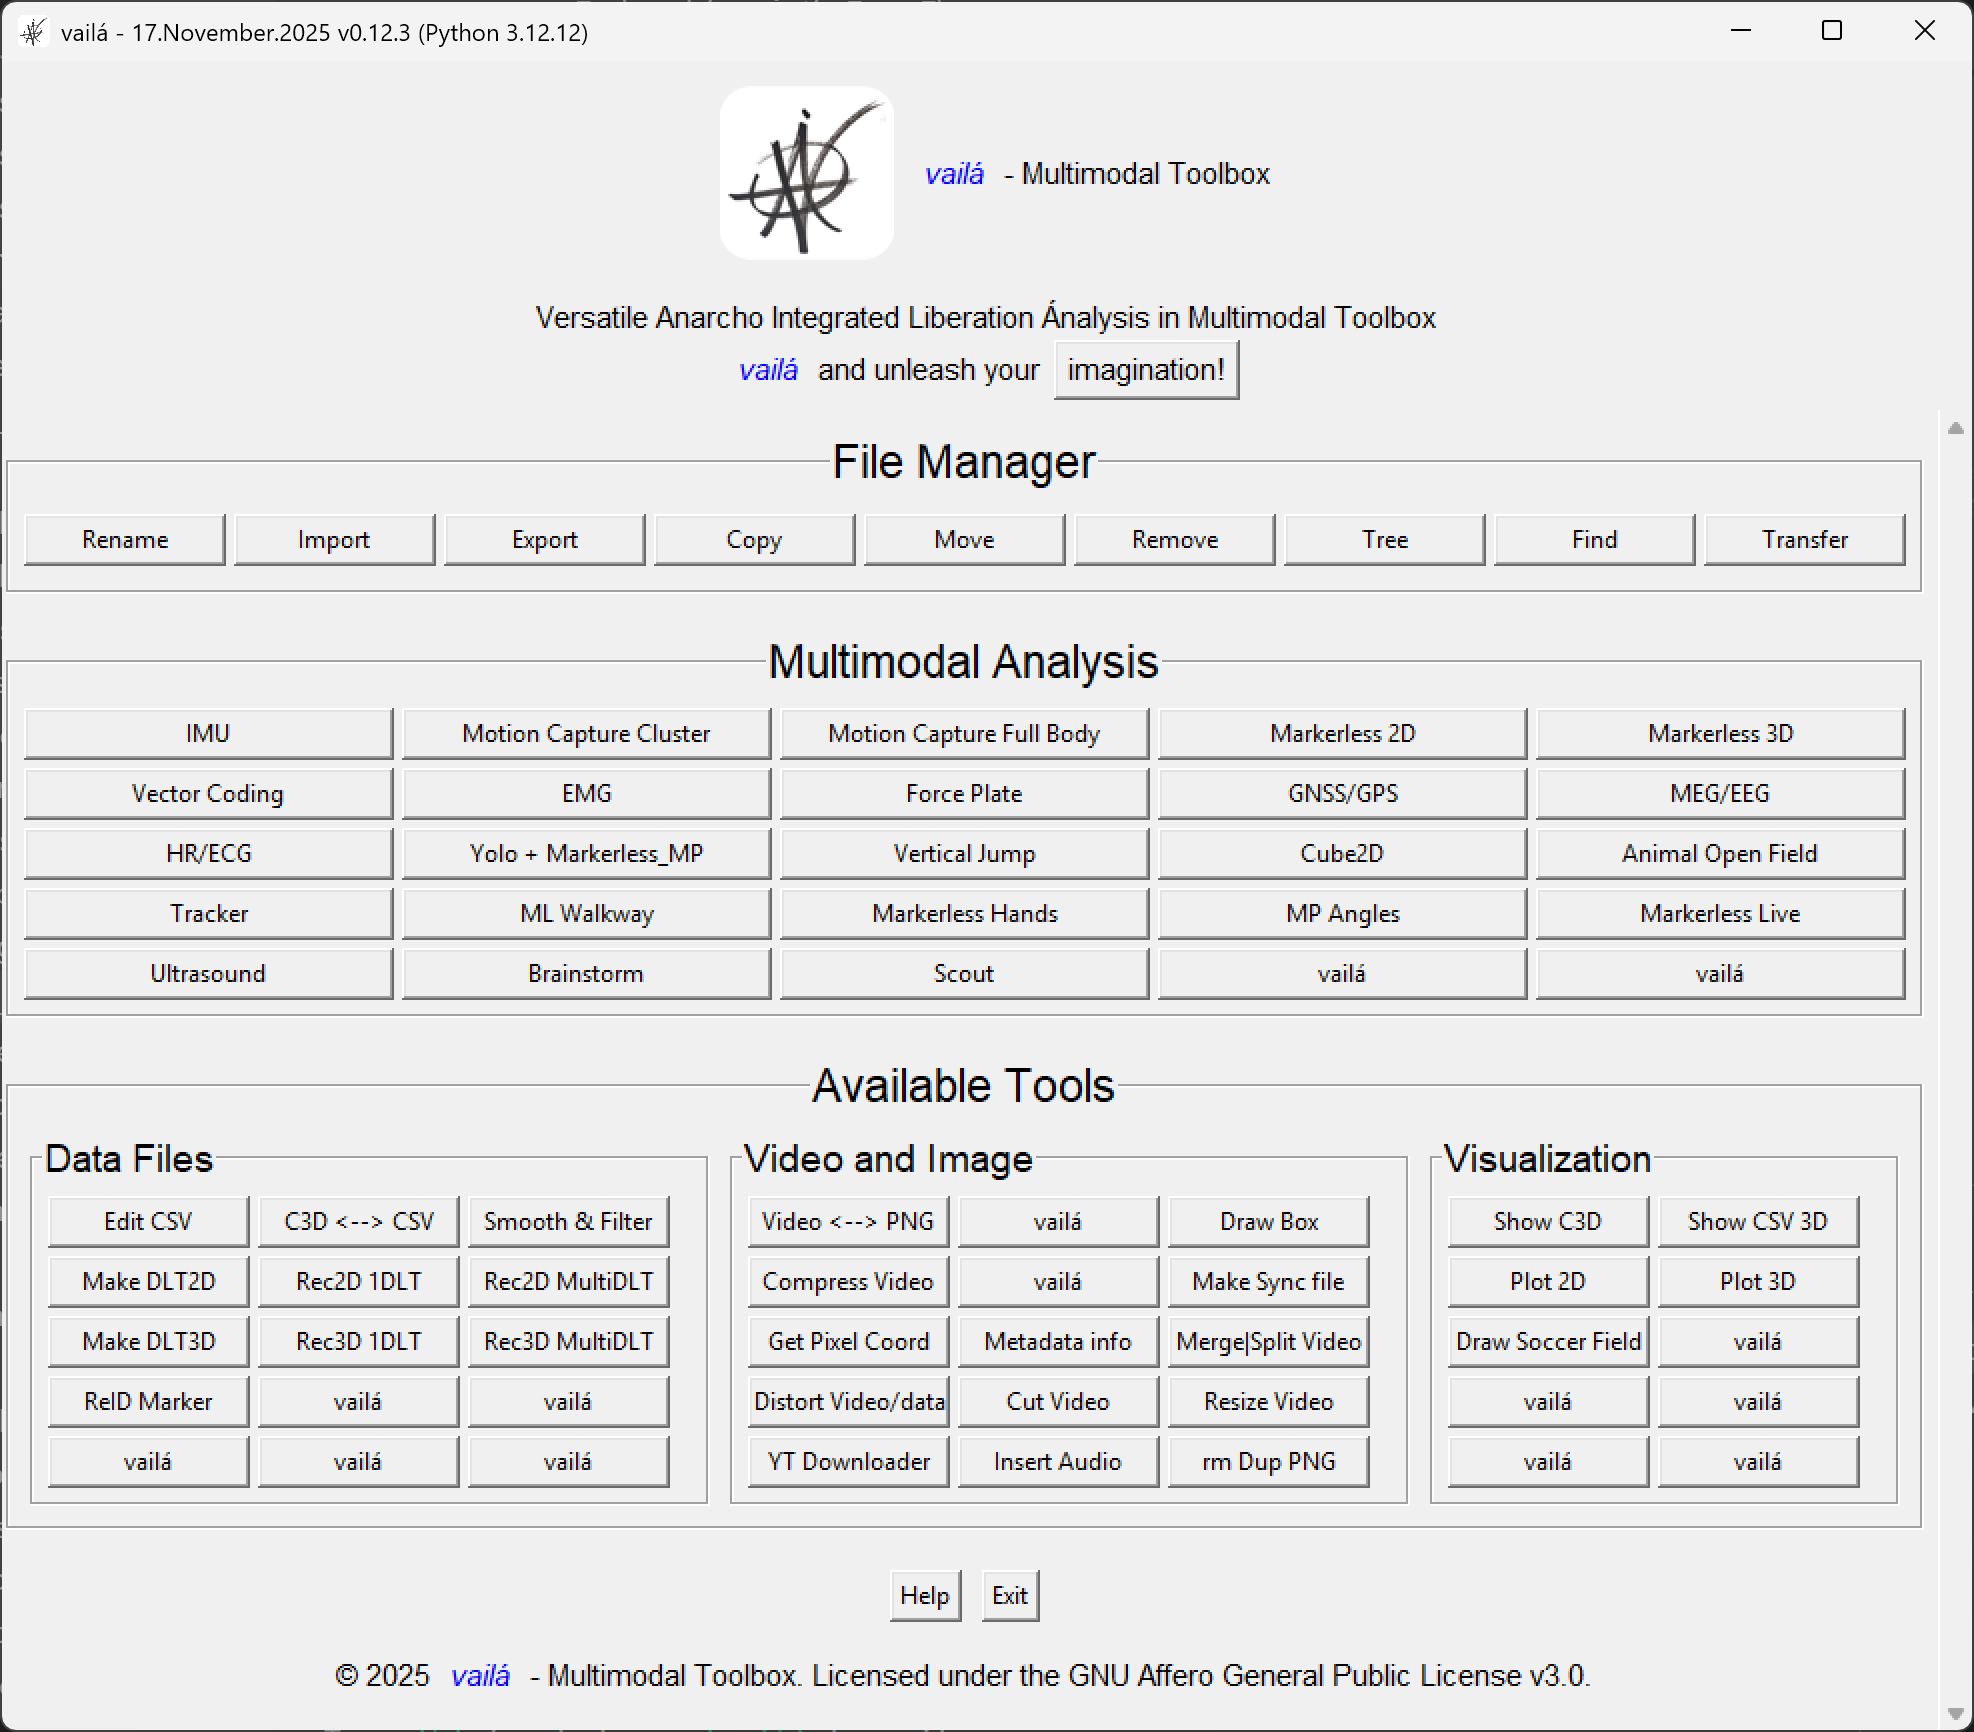
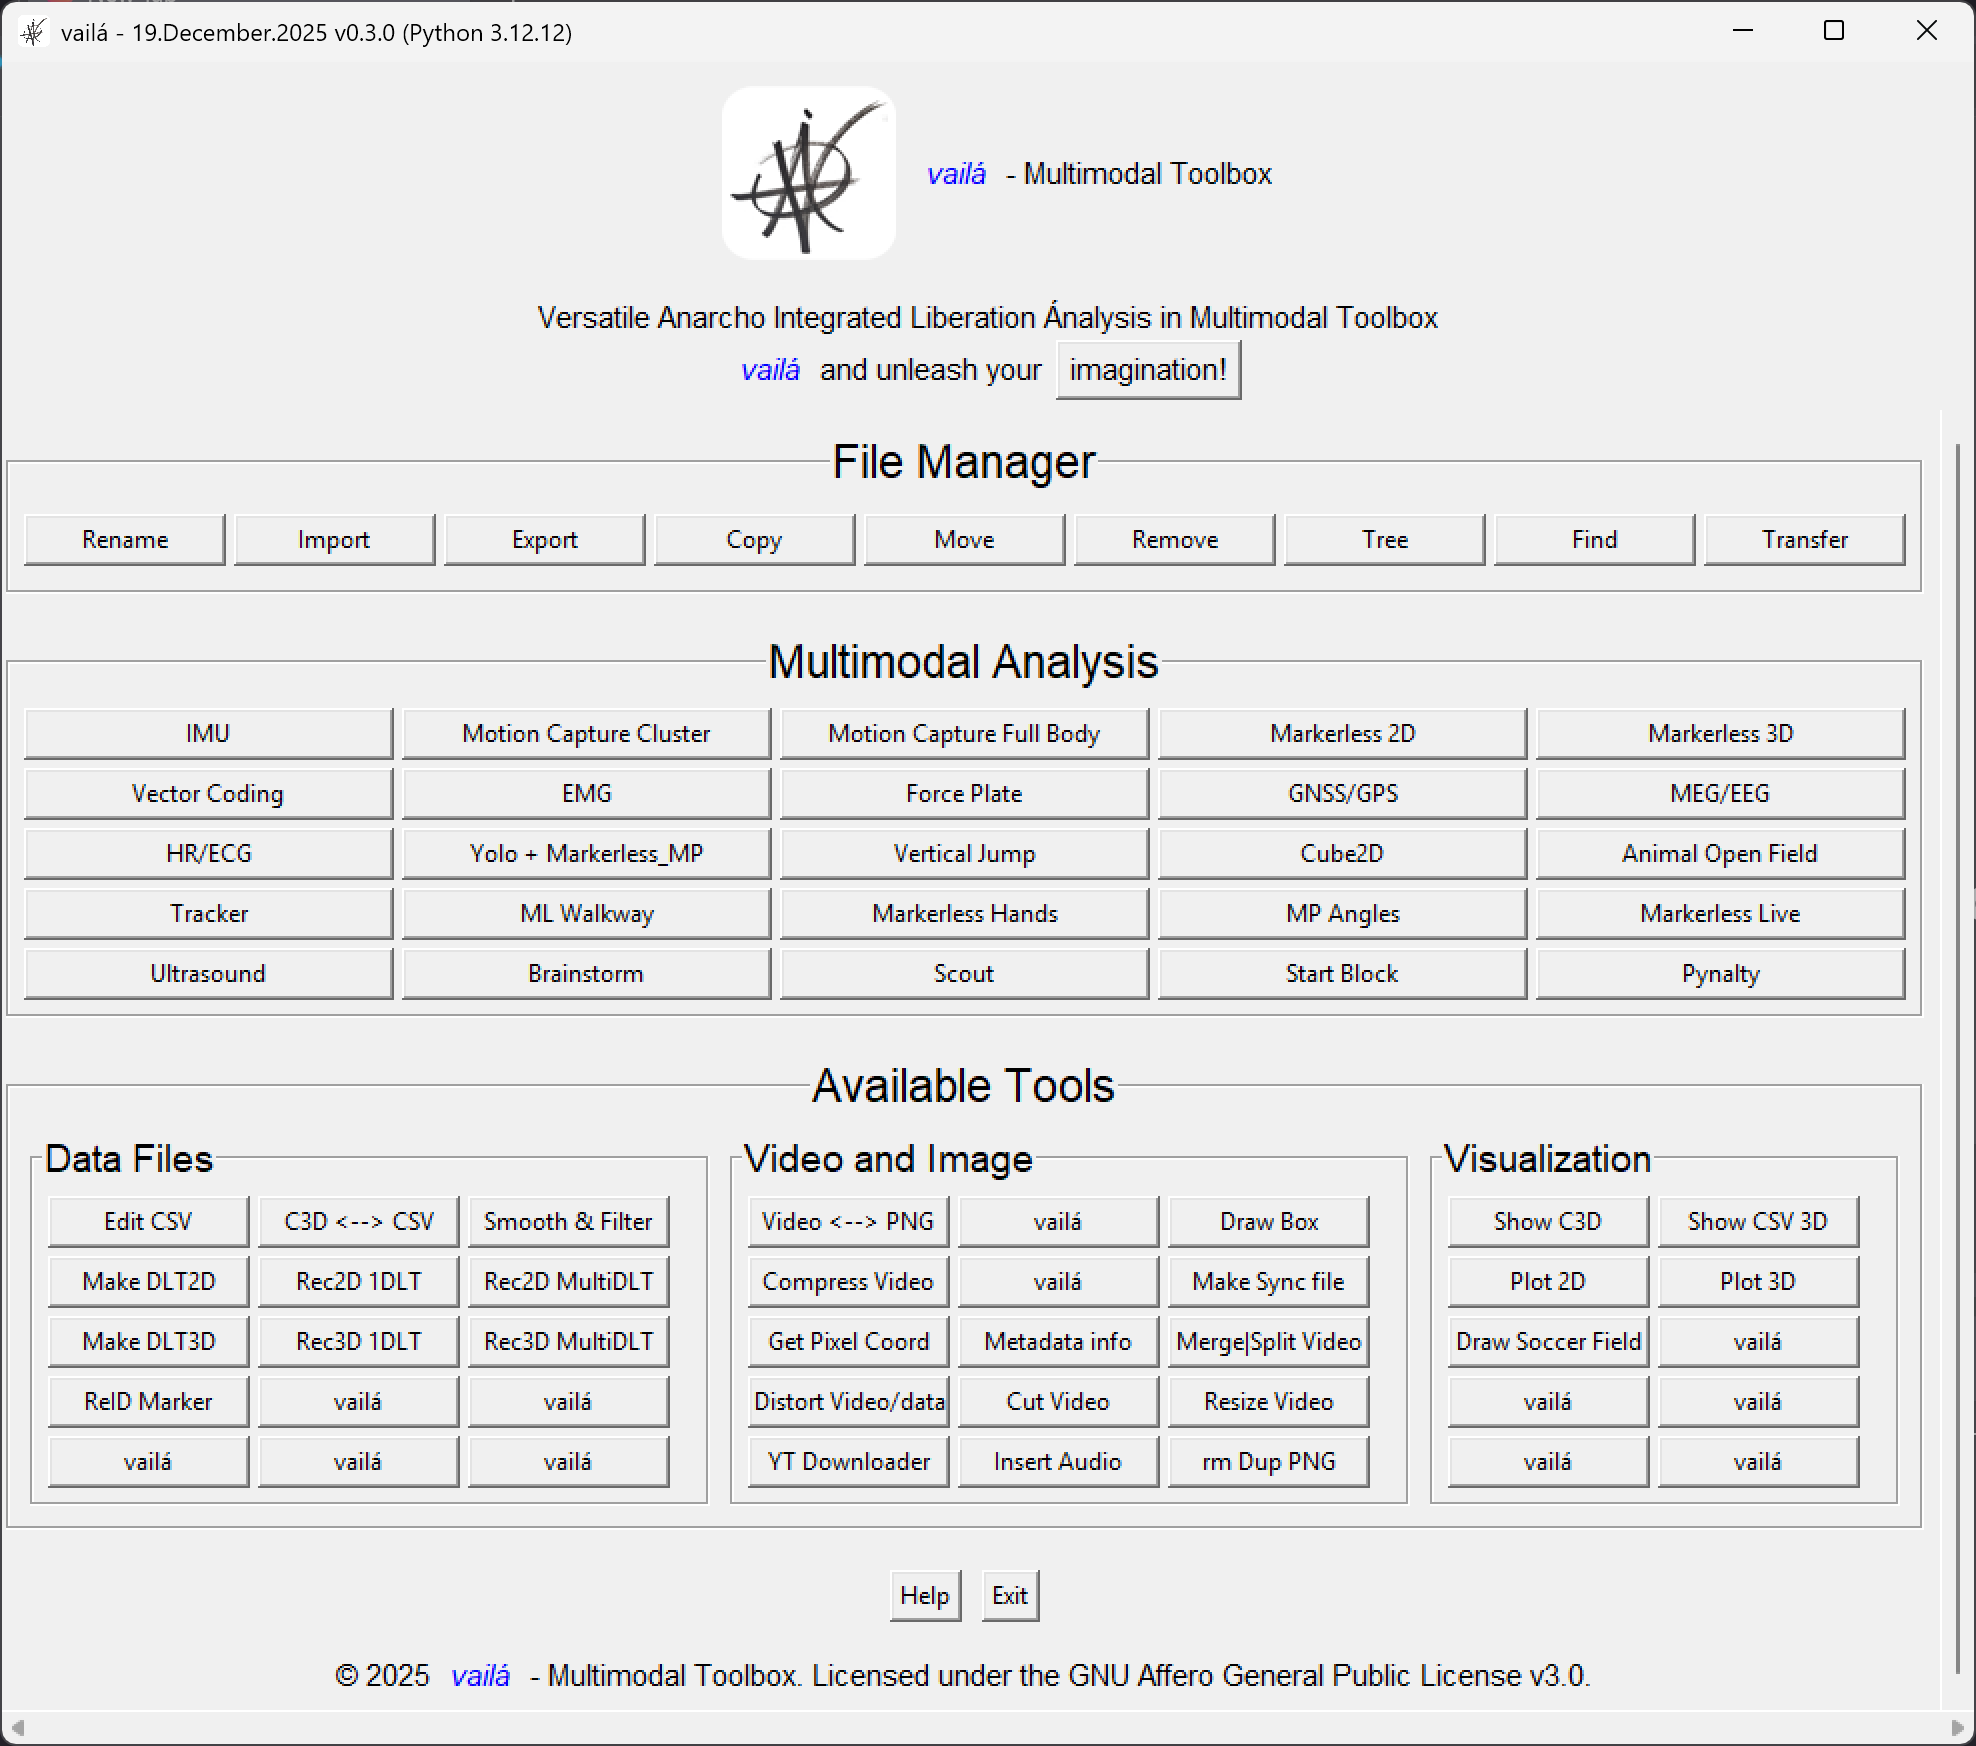
update pynalty docs

diff --git a/vaila/help/pynalty_help.html b/vaila/help/pynalty_help.html
@@ -123,8 +123,7 @@
                         Calibration).</li>
                     <li><strong>Automatic Calculation:</strong> Computes distance, velocity (m/s and km/h) using DLT 2D
                         reconstruction.</li>
-                    <li><strong>Data Export:</strong> Save results to <strong>TOML</strong> (for reloading) and
-                        <strong>CSV</strong> (for Excel/Analysis).
+                    <li><strong>Data Export:</strong> Save complete results package including <strong>TOML</strong> (for reloading), <strong>CSV</strong> (for Excel/Analysis), <strong>HTML report</strong>, and <strong>snapshot images</strong>.
                     </li>
                     <li><strong>Interactive GUI:</strong> Zoom, pan, frame slider, visual markers, and help overlay.
                     </li>
@@ -215,11 +214,7 @@
                 </tr>
                 <tr>
                     <td><span class="key">S</span></td>
-                    <td>Save Analysis to TOML</td>
-                </tr>
-                <tr>
-                    <td><span class="key">C</span></td>
-                    <td>Save Results to CSV</td>
+                    <td>Save All Results (TOML + CSV + HTML + Snapshots)</td>
                 </tr>
                 <tr>
                     <td><span class="key">L</span></td>
@@ -236,8 +231,21 @@
             </table>
         </section>
 
+        <section id="saving">
+            <h2>4. Saving and Loading</h2>
+            <p>
+                Press <span class="key">S</span> to save all results in a complete package:
+            </p>
+            <ul>
+                <li><strong>TOML file:</strong> Contains marked points and state (use <span class="key">L</span> to reload and resume work later)</li>
+                <li><strong>CSV file:</strong> Contains final calculated statistics (Velocity, Distance, Coordinates) and raw points for reporting</li>
+                <li><strong>HTML report:</strong> Visual report with metrics and snapshots</li>
+                <li><strong>Snapshot images:</strong> PNG images of key events (GK Move, Kick, Goal, Calibration)</li>
+            </ul>
+        </section>
+
         <section id="troubleshooting">
-            <h2>4. Troubleshooting</h2>
+            <h2>5. Troubleshooting</h2>
             <ul>
                 <li><strong>Wrong Velocity?</strong> Ensure the goal calibration points are clicked in the correct order
                     (Bottom-Left -> Top-Left -> Top-Right -> Bottom-Right). The system assumes standard goal dimensions

diff --git a/vaila/pynalty.py b/vaila/pynalty.py
@@ -488,7 +488,7 @@ class PynaltyApp:
         self.screen.blit(info_surf, (20, h - 55))
         
         # Shortcuts Hint (Bottom Right)
-        hint = "H: Help | F: FPS | S: Save TOML | C: Save CSV"
+        hint = "H: Help | F: FPS | S: Save All Results"
         hint_surf = self.font.render(hint, True, (200, 200, 200))
         self.screen.blit(hint_surf, (w - hint_surf.get_width() - 20, h - 55))
 
@@ -509,7 +509,7 @@ class PynaltyApp:
                 instr = f"{evt.instructions} ({pts} remaining)"
 
         if self.current_event_idx >= 0 and self.all_events_done():
-             instr = "All Set! Press S (TOML) or C (CSV) to Save."
+             instr = "All Set! Press S to Save All Results."
              st_color = (100, 255, 100)
             
         txt_surf = self.font_big.render(instr, True, st_color)
@@ -554,7 +554,7 @@ class PynaltyApp:
             "  ENTER            : Set Frame (for current step)",
             "  Left Click       : Mark Points (Ball/GK)",
             "  Right Click      : Undo / Remove Point",
-            "  S / C            : Save TOML / CSV",
+            "  S                : Save All Results (TOML + CSV + HTML)",
             "  F                : Change FPS",
             "  H                : Toggle Help",
             "  ESC              : Exit"
@@ -876,7 +876,7 @@ class PynaltyApp:
                     elif event.key == pygame.K_MINUS or event.key == pygame.K_KP_MINUS:
                          self.zoom = max(self.zoom / 1.1, 0.1)
 
-                    elif event.key == pygame.K_s or event.key == pygame.K_c:
+                    elif event.key == pygame.K_s:
                         ok = self.save_results_package()
                         if ok:
                             self.feedback_msg = "All Results Saved!"
@@ -1202,16 +1202,16 @@ class PynaltyApp:
              p_z = rec2d(dlt_inv, axis_z)
              
              # Draw Lines
-             # Origin -> X (Blue)
+             # Origin -> X (Red )
              sx0, sy0 = self.image_to_screen_coords(p_origin[0,0], p_origin[0,1])
              sxX, syX = self.image_to_screen_coords(p_x[0,0], p_x[0,1])
-             pygame.draw.line(self.screen, (0, 0, 255), (sx0, sy0), (sxX, syX), 3)
-             self.screen.blit(self.font.render("X", True, (0,0,255)), (sxX, syX))
+             pygame.draw.line(self.screen, (255, 0, 0), (sx0, sy0), (sxX, syX), 5)
+             self.screen.blit(self.font.render("X", True, (255,0,0)), (sxX, syX))
              
-             # Origin -> Z (Red)
+             # Origin -> Z (Blue)
              sxZ, syZ = self.image_to_screen_coords(p_z[0,0], p_z[0,1])
-             pygame.draw.line(self.screen, (255, 0, 0), (sx0, sy0), (sxZ, syZ), 3)
-             self.screen.blit(self.font.render("Z", True, (255,0,0)), (sxZ, syZ))
+             pygame.draw.line(self.screen, (0, 0, 255), (sx0, sy0), (sxZ, syZ), 5)
+             self.screen.blit(self.font.render("Z", True, (0,0,255)), (sxZ, syZ))
              
              # Draw Origin Dot
              pygame.draw.circle(self.screen, YELLOW, (sx0, sy0), 4)

diff --git a/vaila/help/pynalty_help.md b/vaila/help/pynalty_help.md
@@ -13,7 +13,7 @@
 - **Video-Based Analysis:** Analyze penalty kicks directly from video files.
 - **State-Based Workflow:** Guided step-by-step process (Kick Frame -> Goal Frame -> Calibration).
 - **Automatic Calculation:** Computes distance, velocity (m/s and km/h) using DLT 2D reconstruction.
-- **Data Export:** Save results to **TOML** (for reloading) and **CSV** (for Excel/Analysis).
+- **Data Export:** Save complete results package including **TOML** (for reloading), **CSV** (for Excel/Analysis), **HTML report**, and **snapshot images**.
 - **Interactive GUI:** Zoom, pan, frame slider, and visual markers.
 - **Help Overlay:** Press **H** for quick reference.
 
@@ -54,16 +54,18 @@
 | **ENTER** | Confirm Frame Selection (Kick/GK/Goal) |
 | **Left Click** | Mark Ball / GK / Calibration Point |
 | **Right Click** | Undo Last Mark / Go Back Step |
-| **S** | Save Analysis to TOML |
-| **C** | Save Results to CSV |
+| **S** | Save All Results (TOML + CSV + HTML + Snapshots) |
 | **L** | Load Analysis from TOML |
 | **F** | Change Video FPS (Manual Override) |
 | **H** | Toggle Help Overlay |
 
 ## Saving and Loading
 
-- **TOML (S Key):** Saves marked points and state. Use this to resume work later (Load with **L**).
-- **CSV (C Key):** Saves final calculated statistics (Velocity, Distance, Coordinates) and raw points to a CSV file for reporting.
+- **S Key:** Saves all results in a complete package:
+  - **TOML file:** Contains marked points and state (use **L** to reload and resume work later)
+  - **CSV file:** Contains final calculated statistics (Velocity, Distance, Coordinates) and raw points for reporting
+  - **HTML report:** Visual report with metrics and snapshots
+  - **Snapshot images:** PNG images of key events (GK Move, Kick, Goal, Calibration)
 
 ## Troubleshooting
 